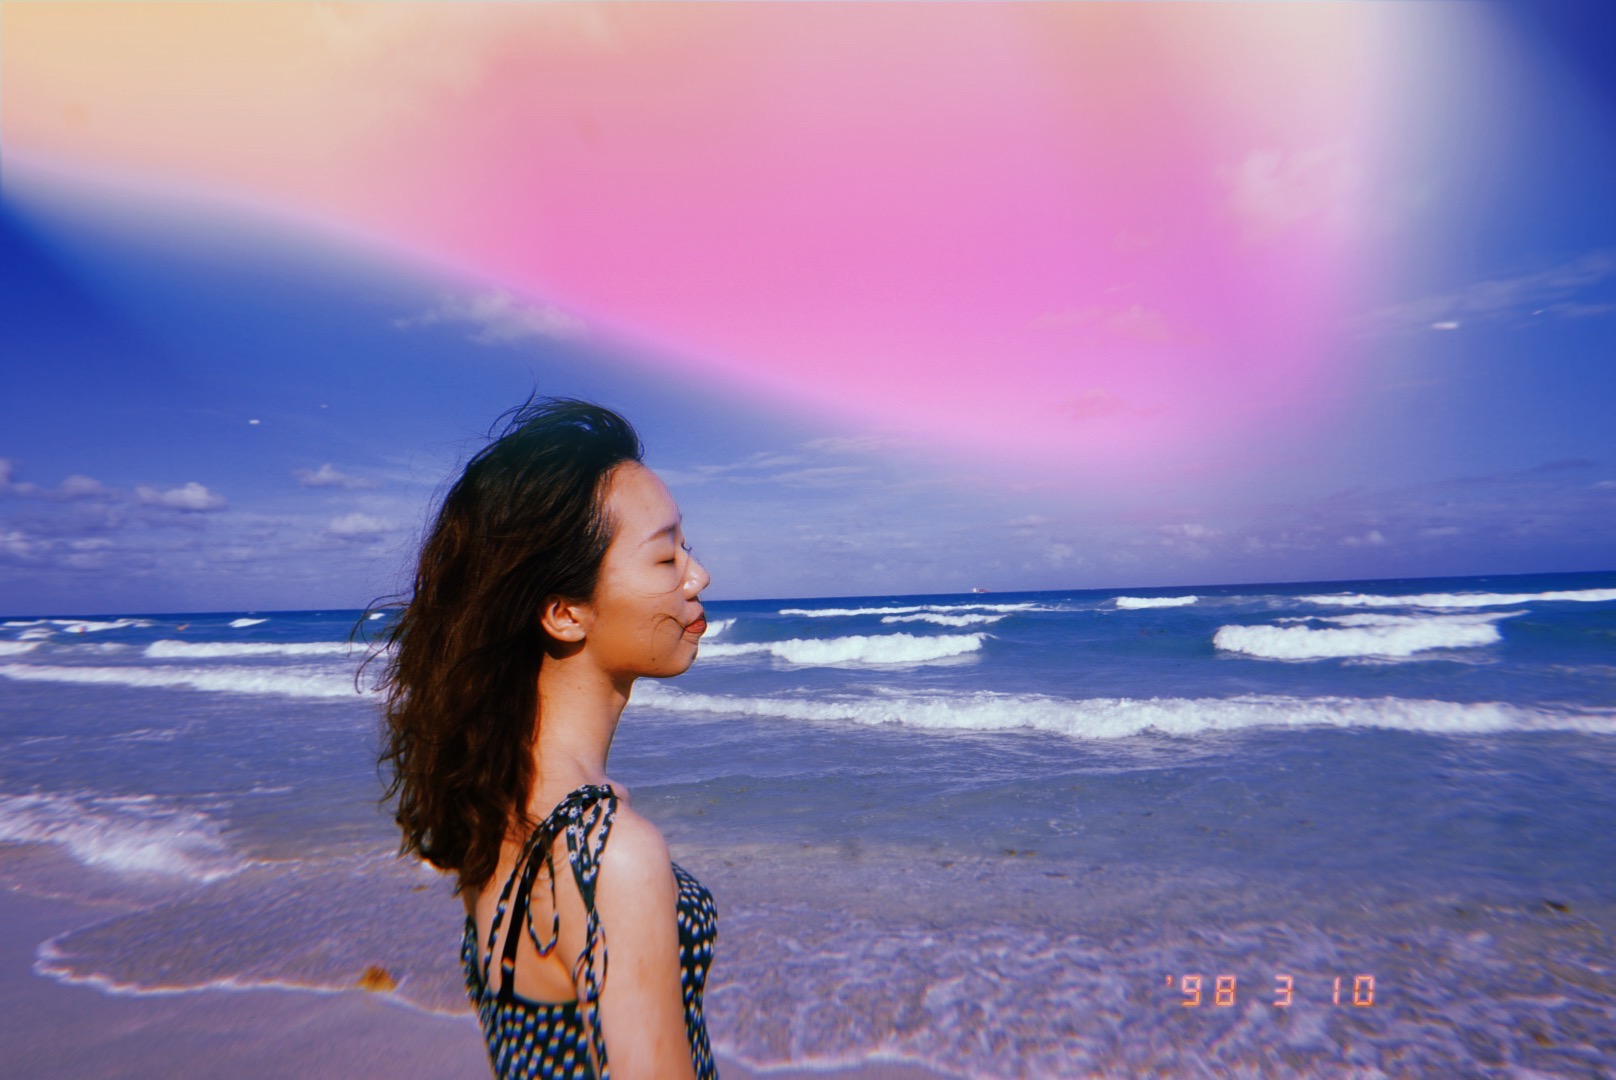
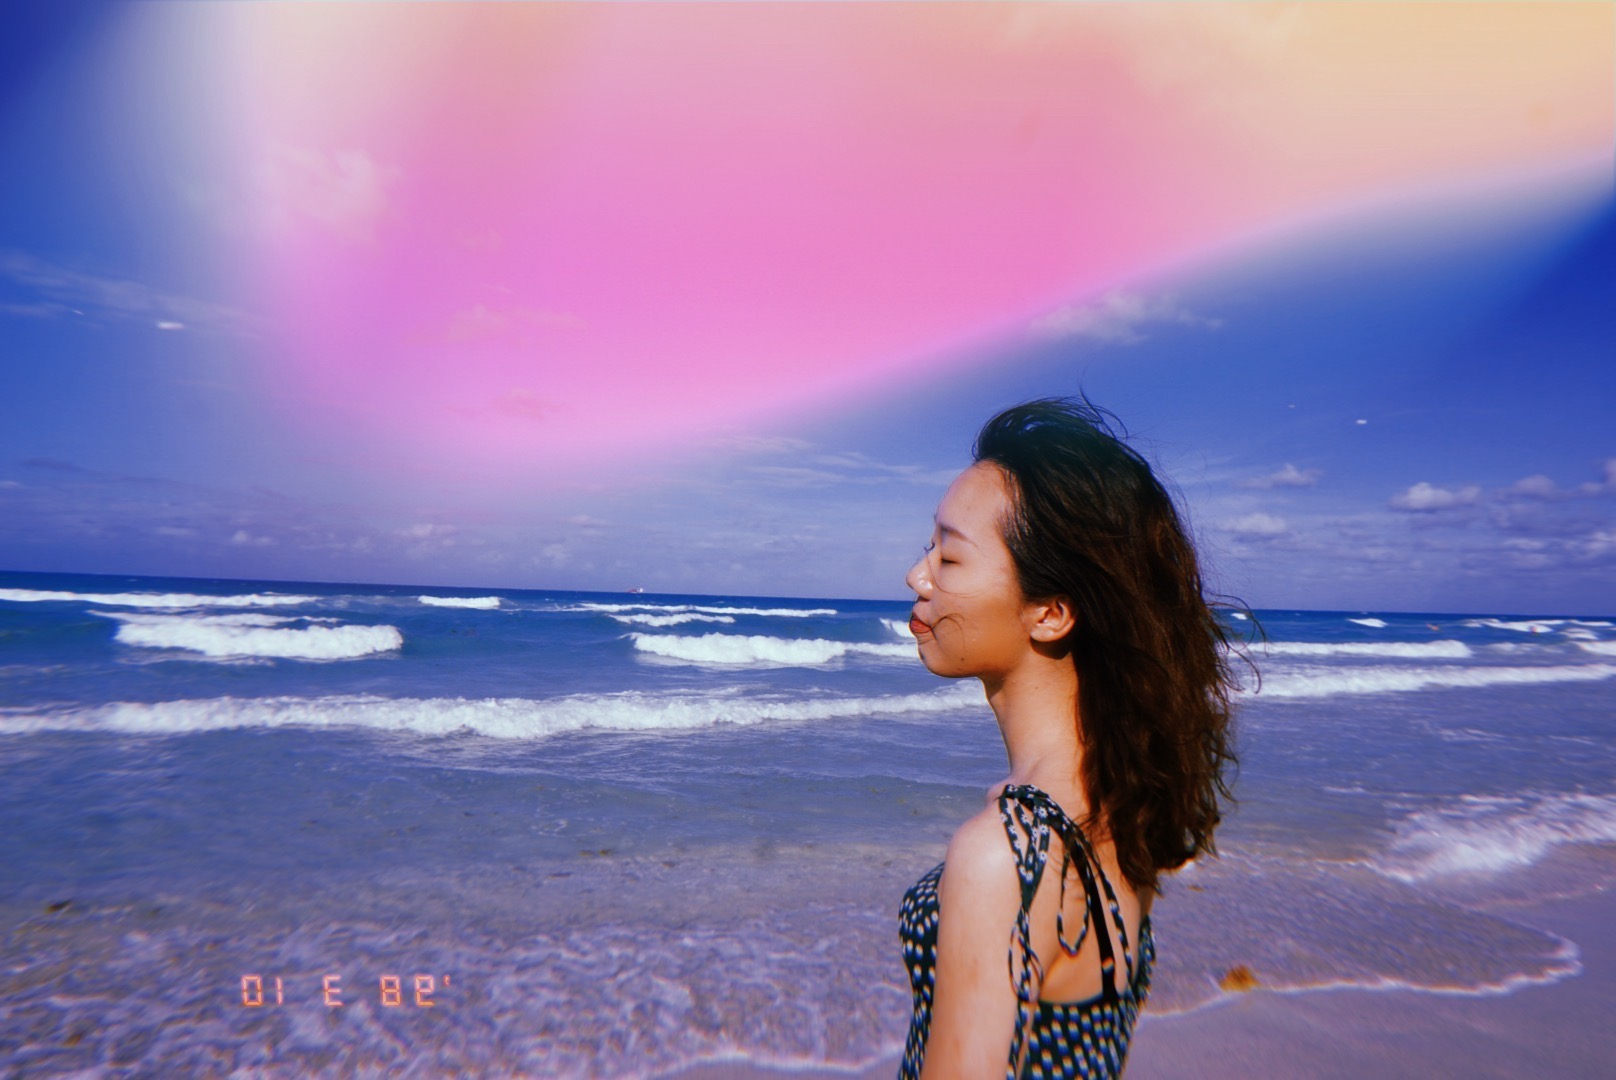
background images

diff --git a/index.html b/index.html
@@ -35,10 +35,12 @@
 
 				<!-- Intro -->
 					<section id="intro" class="wrapper style1 fullscreen fade-up">
+                        
 						<div class="inner">
+                            
 							<h1>Hi I'm Yuchen!</h1>
-                            <p>I am <b>Yuchen Yang</b>, a Computer Engineering Student who wants to bring meaningful changes to the world by coding.</p>
-                            <p>Highlights: Duke University, Xiaomi Technology, Cadence Design Systems,  Infrastructure, Distributed System, Full-stack development</p>
+                            <p>I am <b>Yuchen Yang</b>, a Computer Engineering Student who wants to bring <b>meaningful changes</b> to the world by coding.</p>
+                            <p>Highlights: <b>Duke University, Xiaomi Technology, Cadence Design Systems,  Infrastructure, Distributed System, Full-stack development</b></p>
 							<ul class="actions">
 								<li><a href="#one" class="button scrolly">More About Me</a></li>
 							</ul>
@@ -72,7 +74,7 @@
 				<!-- My work -->
 					<section id="three" class="wrapper style2 spotlights">
 						<section>
-							<a href="#" class="image"><img src="images/pic01.jpg" alt="" data-position="center center" /></a>
+							<a href="#" class="image"><img src="images/xiaomi.jpg" alt="" data-position="center center" /></a>
 							<div class="content">
 								<div class="inner">
 									<h2>Internship at Xiaomi Technology</h2>
@@ -84,7 +86,7 @@
 							</div>
 						</section>
 						<section>
-							<a href="#" class="image"><img src="images/pic02.jpg" alt="" data-position="top center" /></a>
+							<a href="#" class="image"><img src="images/IMG_2266.JPG" alt="" data-position="top center" /></a>
 							<div class="content">
 								<div class="inner">
 									<h2>Internship at Cadence Design Systems</h2>
@@ -116,8 +118,7 @@
                             <div class="content">
                                 <div class="inner">
                                     <h2>Dancing</h2>
-                                    <p>I love all kinds of dances, traditional Chinese dance, ballet, and kpop are my favorites.</p>
-                                    <p>I used to the Vice team leader of the dance team of my college.</p>
+                                    <p>I love all kinds of dances, traditional Chinese dance, ballet, and kpop are my favorites. I used to the Vice team leader of the dance team of my college.</p>
                                     <ul class="actions">
                                         <li><a href="generic.html" class="button">Learn more</a></li>
                                     </ul>
@@ -125,7 +126,7 @@
                             </div>
                         </section>
                         <section>
-                            <a href="#" class="image"><img src="images/kyoto01.jpg" alt="" data-position="top center" /></a>
+                            <a href="#" class="image"><img src="images/kyoto01.JPG" alt="" data-position="top center" /></a>
                             <div class="content">
                                 <div class="inner">
                                     <h2>Travelling</h2>

diff --git a/assets/css/main.css b/assets/css/main.css
@@ -3874,10 +3874,10 @@ input, select, textarea {
 
 	#intro {
 		background-attachment: fixed;
-		background-image: url("images/intro.svg");
+		background-image: url("images/IMG_2658.JPG");
 		background-position: top right;
 		background-repeat: no-repeat;
-		background-size: 100% 100%;
+		background-size: cover;
 	}
 
 		#intro p {
@@ -3907,3 +3907,78 @@ input, select, textarea {
 			}
 
 		}
+/* one */
+
+#one {
+    background-attachment: fixed;
+    background-image: url("images/miami01.JPG");
+    background-position: top right;
+    background-repeat: no-repeat;
+    background-size: cover;
+}
+
+    #one p {
+        font-size: 1.25em;
+    }
+
+        @media screen and (max-width: 980px) {
+
+            #one p br {
+                display: none;
+            }
+
+        }
+
+        @media screen and (max-width: 736px) {
+
+            #one p {
+                font-size: 1em;
+            }
+
+        }
+
+    @media screen and (max-width: 1280px) {
+
+        #one {
+            background-attachment: scroll;
+        }
+
+    }
+
+/* two */
+
+#two {
+    background-attachment: fixed;
+    background-image: url("images/IMG_4184.jpg");
+    background-position: top right;
+    background-repeat: no-repeat;
+    background-size: cover;
+}
+
+    #two p {
+        font-size: 1.25em;
+    }
+
+        @media screen and (max-width: 980px) {
+
+            #two p br {
+                display: none;
+            }
+
+        }
+
+        @media screen and (max-width: 736px) {
+
+            #two p {
+                font-size: 1em;
+            }
+
+        }
+
+    @media screen and (max-width: 1280px) {
+
+        #two {
+            background-attachment: scroll;
+        }
+
+    }

diff --git a/generic.html b/generic.html
@@ -16,7 +16,7 @@
 
 		<!-- Header -->
 			<header id="header">
-				<a href="index.html" class="title">Hyperspace</a>
+				<a href="index.html" class="title">Yuchen's home</a>
 				<nav>
 					<ul>
 						<li><a href="index.html">Home</a></li>
@@ -45,7 +45,7 @@
 			<footer id="footer" class="wrapper alt">
 				<div class="inner">
 					<ul class="menu">
-						<li>&copy; Untitled. All rights reserved.</li><li>Design: <a href="http://html5up.net">HTML5 UP</a></li>
+						
 					</ul>
 				</div>
 			</footer>

diff --git a/elements.html b/elements.html
@@ -16,7 +16,7 @@
 
 		<!-- Header -->
 			<header id="header">
-				<a href="index.html" class="title">Hyperspace</a>
+				<a href="index.html" class="title">Yuchen's home</a>
 				<nav>
 					<ul>
 						<li><a href="index.html">Home</a></li>
